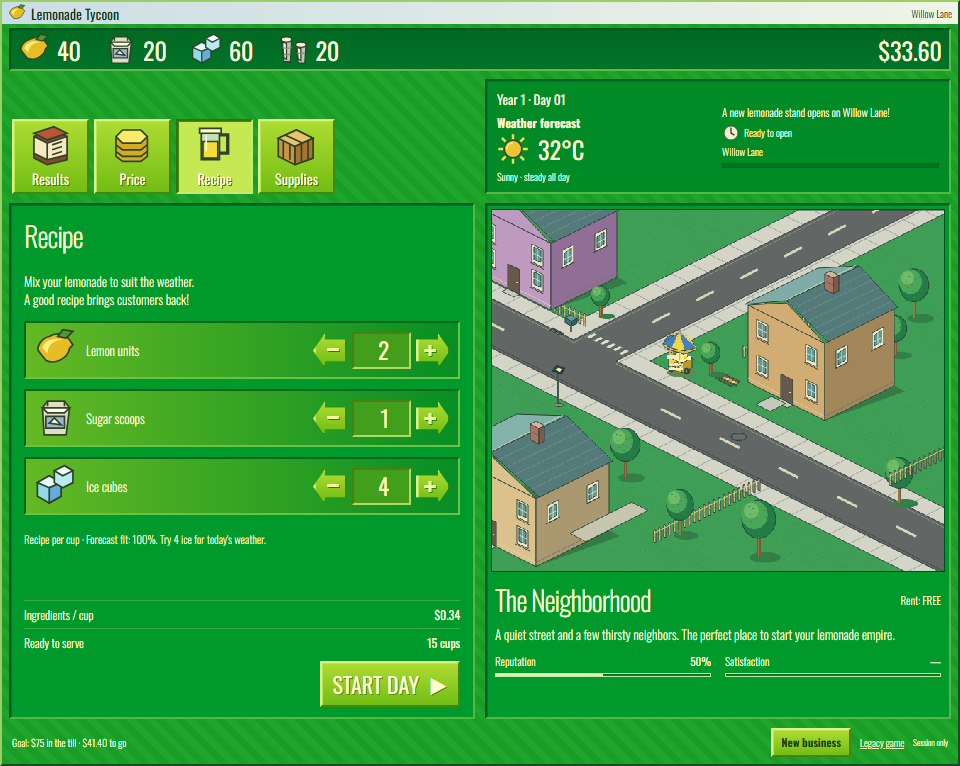
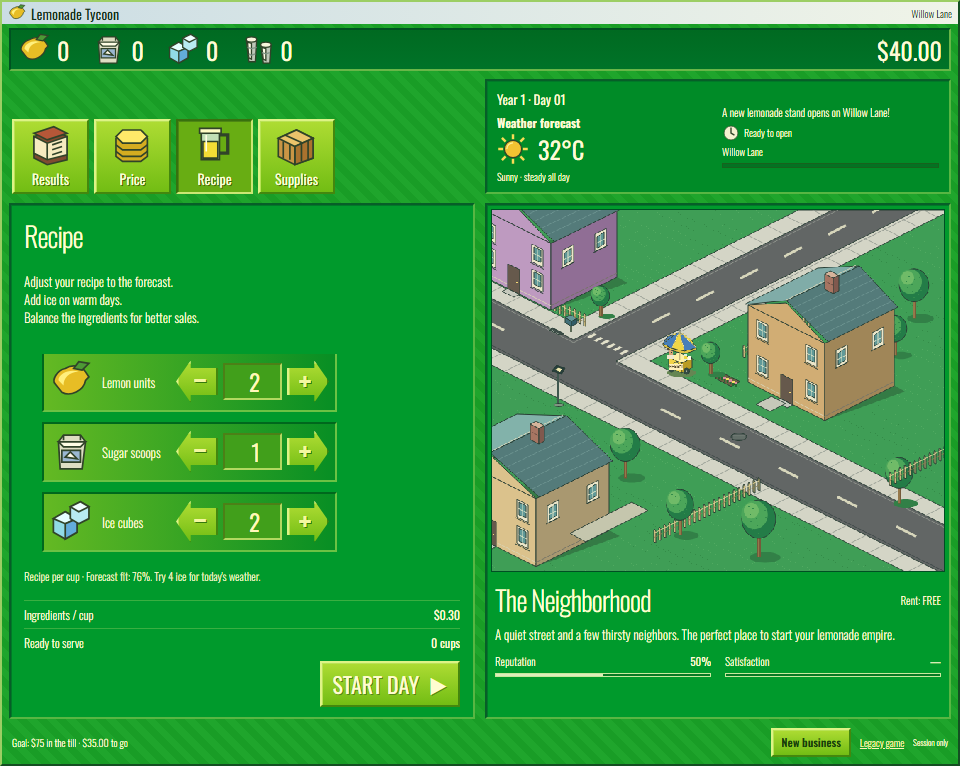
align recipe controls with classic panel composition (#116)

diff --git a/src/game/presentation/layout.ts b/src/game/presentation/layout.ts
@@ -22,7 +22,7 @@ export const markup = `
   <section class="panel" aria-labelledby="panel-title">
    <h2 id="panel-title">Recipe</h2>
    <div id="preparation">
-    <div id="recipe-page" class="control-page"><p class="intro">Mix your lemonade to suit the weather.<br>A good recipe brings customers back!</p>
+    <div id="recipe-page" class="control-page"><p class="intro">Adjust your recipe to the forecast.<br>Add ice on warm days.<br>Balance the ingredients for better sales.</p>
      <fieldset id="recipe-controls"><legend class="sr-only">Recipe per cup</legend>
      ${(["lemon", "sugar", "ice"] as const).map((item) => `<div class="recipe-row"><label for="${item}">${icon(item)}<span>${ITEMS[item].name}</span></label><div class="spinner"><button type="button" data-adjust="${item}" data-direction="-1" aria-label="Decrease ${item}">−</button><input id="${item}" type="number" min="${item === "ice" ? 0 : 1}" max="${item === "sugar" ? 4 : 6}" step="1" value="${item === "sugar" ? 1 : 2}"><button type="button" data-adjust="${item}" data-direction="1" aria-label="Increase ${item}">+</button></div></div>`).join("")}
      </fieldset><p class="hint" id="recipe-hint"></p></div>

diff --git a/src/game/presentation/style.css b/src/game/presentation/style.css
@@ -296,14 +296,26 @@ legend {
 }
 .recipe-row {
     display: flex;
+    width: min(100%, 295px);
+    margin-left: 18px;
     align-items: center;
     justify-content: space-between;
     gap: 7px;
-    padding: 5px 8px;
+    padding: 6px;
     margin-bottom: 10px;
     background: linear-gradient(90deg, #64b923, #078e24);
     border: 2px solid;
     border-color: #00681d #6cc244 #6cc244 #00681d;
+}
+#recipe-page .intro {
+    margin-bottom: 27px;
+}
+.recipe-row:first-child {
+    margin-bottom: 0;
+    border-bottom: 0;
+}
+.recipe-row:nth-child(2) {
+    border-top: 0;
 }
 .recipe-row label {
     display: flex;
@@ -320,8 +332,8 @@ legend {
     gap: 5px;
 }
 .spinner button {
-    width: 34px;
-    height: 34px;
+    width: 42px;
+    height: 42px;
     padding: 0;
     color: #f4f7a0;
     font:

diff --git a/docs/research/m2-acceptance-audit.md b/docs/research/m2-acceptance-audit.md
@@ -24,6 +24,8 @@
 
 ## 남은 차이를 숨기지 않음
 
+2026-09-30 후속 화면 검토: 원작 R06의 레시피 조작은 왼쪽 패널 안의 좁은 세로 묶음인데, M2 캡처에서는 세 줄이 패널 전체 폭을 차지했다. 조작 폭을 295px로 제한하고 왼쪽 여백·설명 간격과 첫 두 줄의 묶음을 조정했다. 같은 화면 폭으로 새 캡처를 비교하며 모바일 375/520px 및 중간 폭 640/768px의 버튼 위치와 가로 넘침을 다시 확인한다. 이 조정은 **화면 구성 개선**이며 원작의 피처 단위 레시피나 원본 그래픽을 재현했다는 뜻은 아니다.
+
 - **시각 승인 필요:** 제목 글꼴은 원작 폰트가 아니며 아이콘·집·나무는 새로 만든 그림이다. 구조/비율/조작을 가깝게 했어도 원작 특유의 질감까지 동일하다고 단정할 수 없다. 비교 보드로 사용자가 판단할 수 있게 남긴다.
 - **모션 근거 부족:** 두 번째 롱플레이도 페이지는 열렸지만 180초 탐색에서 readyState 1로 멈췄다. 연속 장면 관찰에 성공한 것이 아니다. 보행 속도·회전·음용 타이밍의 정확한 재현은 주장하지 않는다.
 - **명시적인 규칙 차이:** 현재 날씨는 하루 동안 고정이다. 실제로 계산하지 않는 시간별 기온 범위나 변화를 예보에 그려 넣지 않는다. 피처 생산, 녹는 얼음, 임대·광고·직원 비용도 현재 컵 단위 경제에 섞지 않는다.
